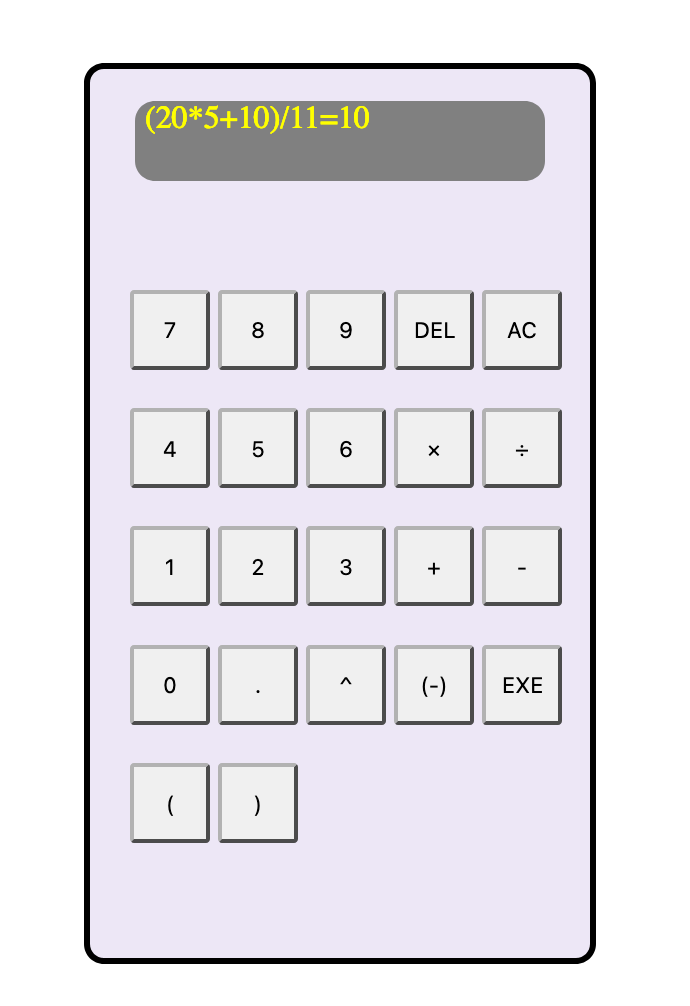
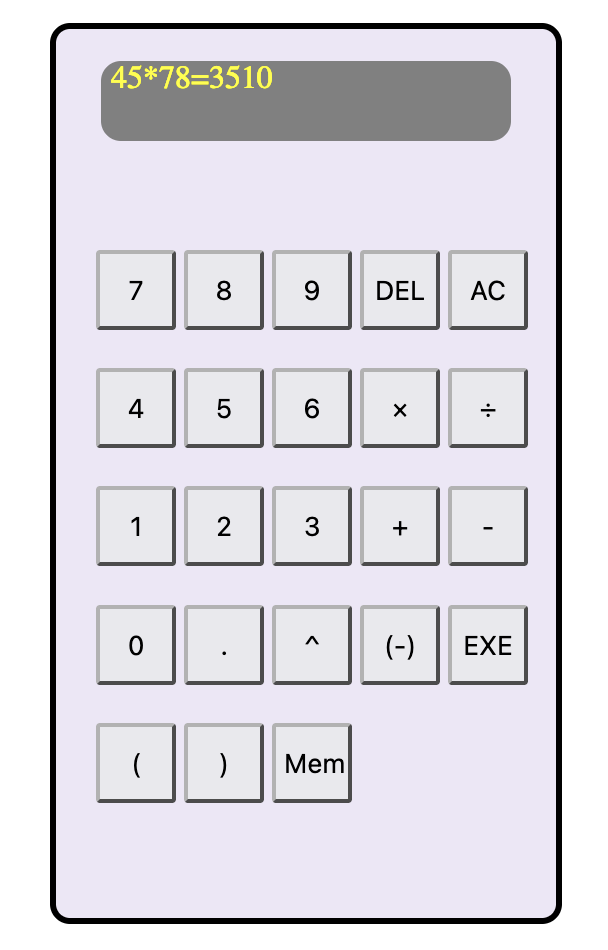
15.12.21

Changed region(s): [[0.0625, 0.0305, 0.9375, 0.9768], [0.0938, 0.0, 0.9062, 0.0305]]

diff --git a/Cours_5_Interaction_Homme_Machine_Web/Exercices_interaction_homme_machine.md b/Cours_5_Interaction_Homme_Machine_Web/Exercices_interaction_homme_machine.md
@@ -37,9 +37,13 @@ Pour avoir un nombre compris entre 1 et 100 compris, on peut utiliser : Math.flo
 
 ## Exercice 3
 
-Réaliser une calculatrice sur une page HTML.
+Réaliser une calculatrice sur une page HTML.  
+Le bouton AC permet de vider l'affichage.  
+Le bouton DEL permet de supprimer le dernier caractère affiché.   
+Le bouton (-) permet de multiplier par -1.  
+Le bouton Mem permet de mémoriser le résultat du dernier calcul et de rappeler ce résultat dans un nouveau calcul.
 
-<img width="400px" height="400px" src="assets/calculatrice.png"> 
+<img src="assets/calculatrice.png"> 
 
 Indication : pour transformer une chaîne de caractère en une expression calculable, utiliser eval.
 
